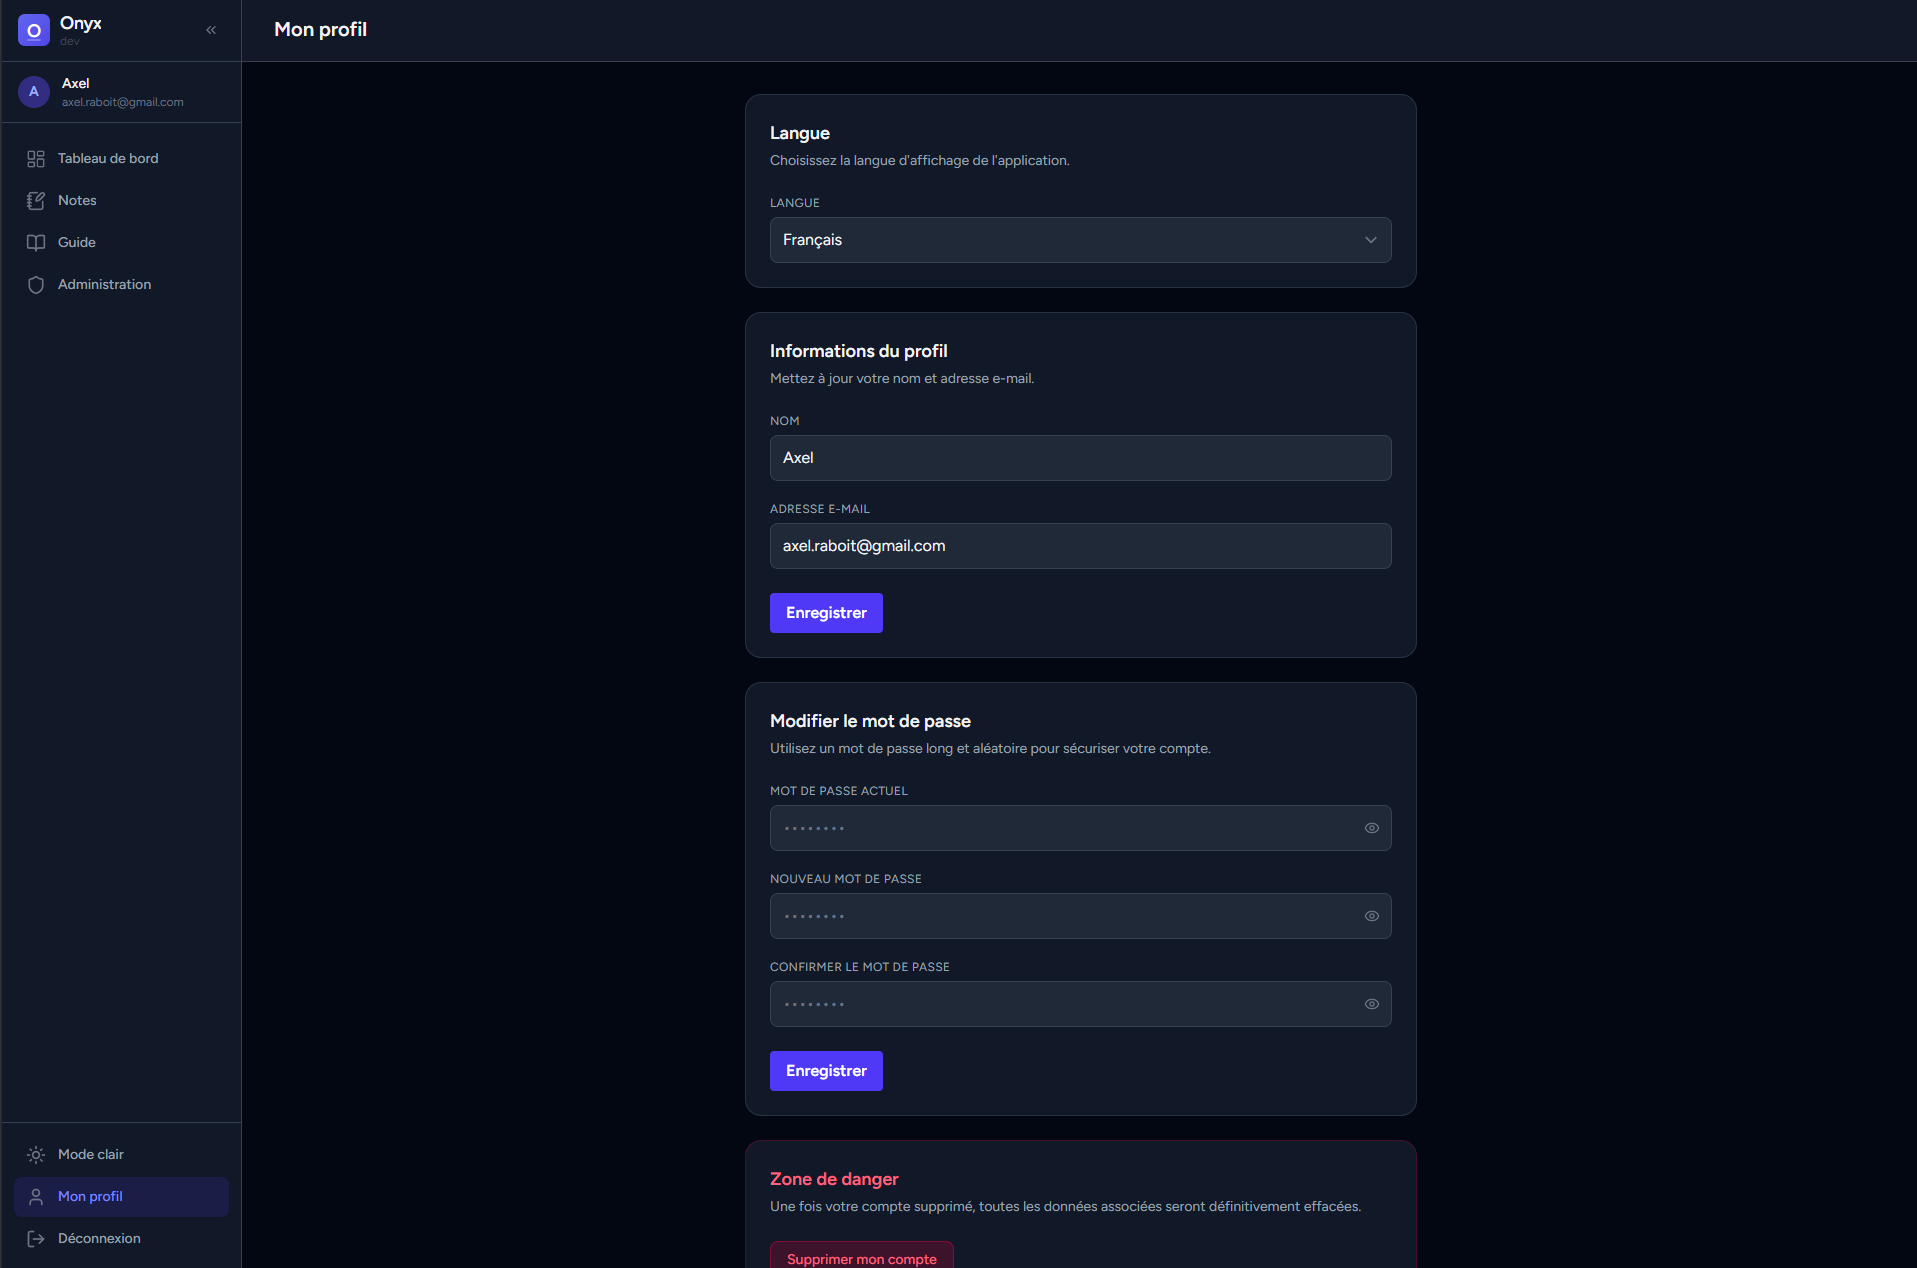
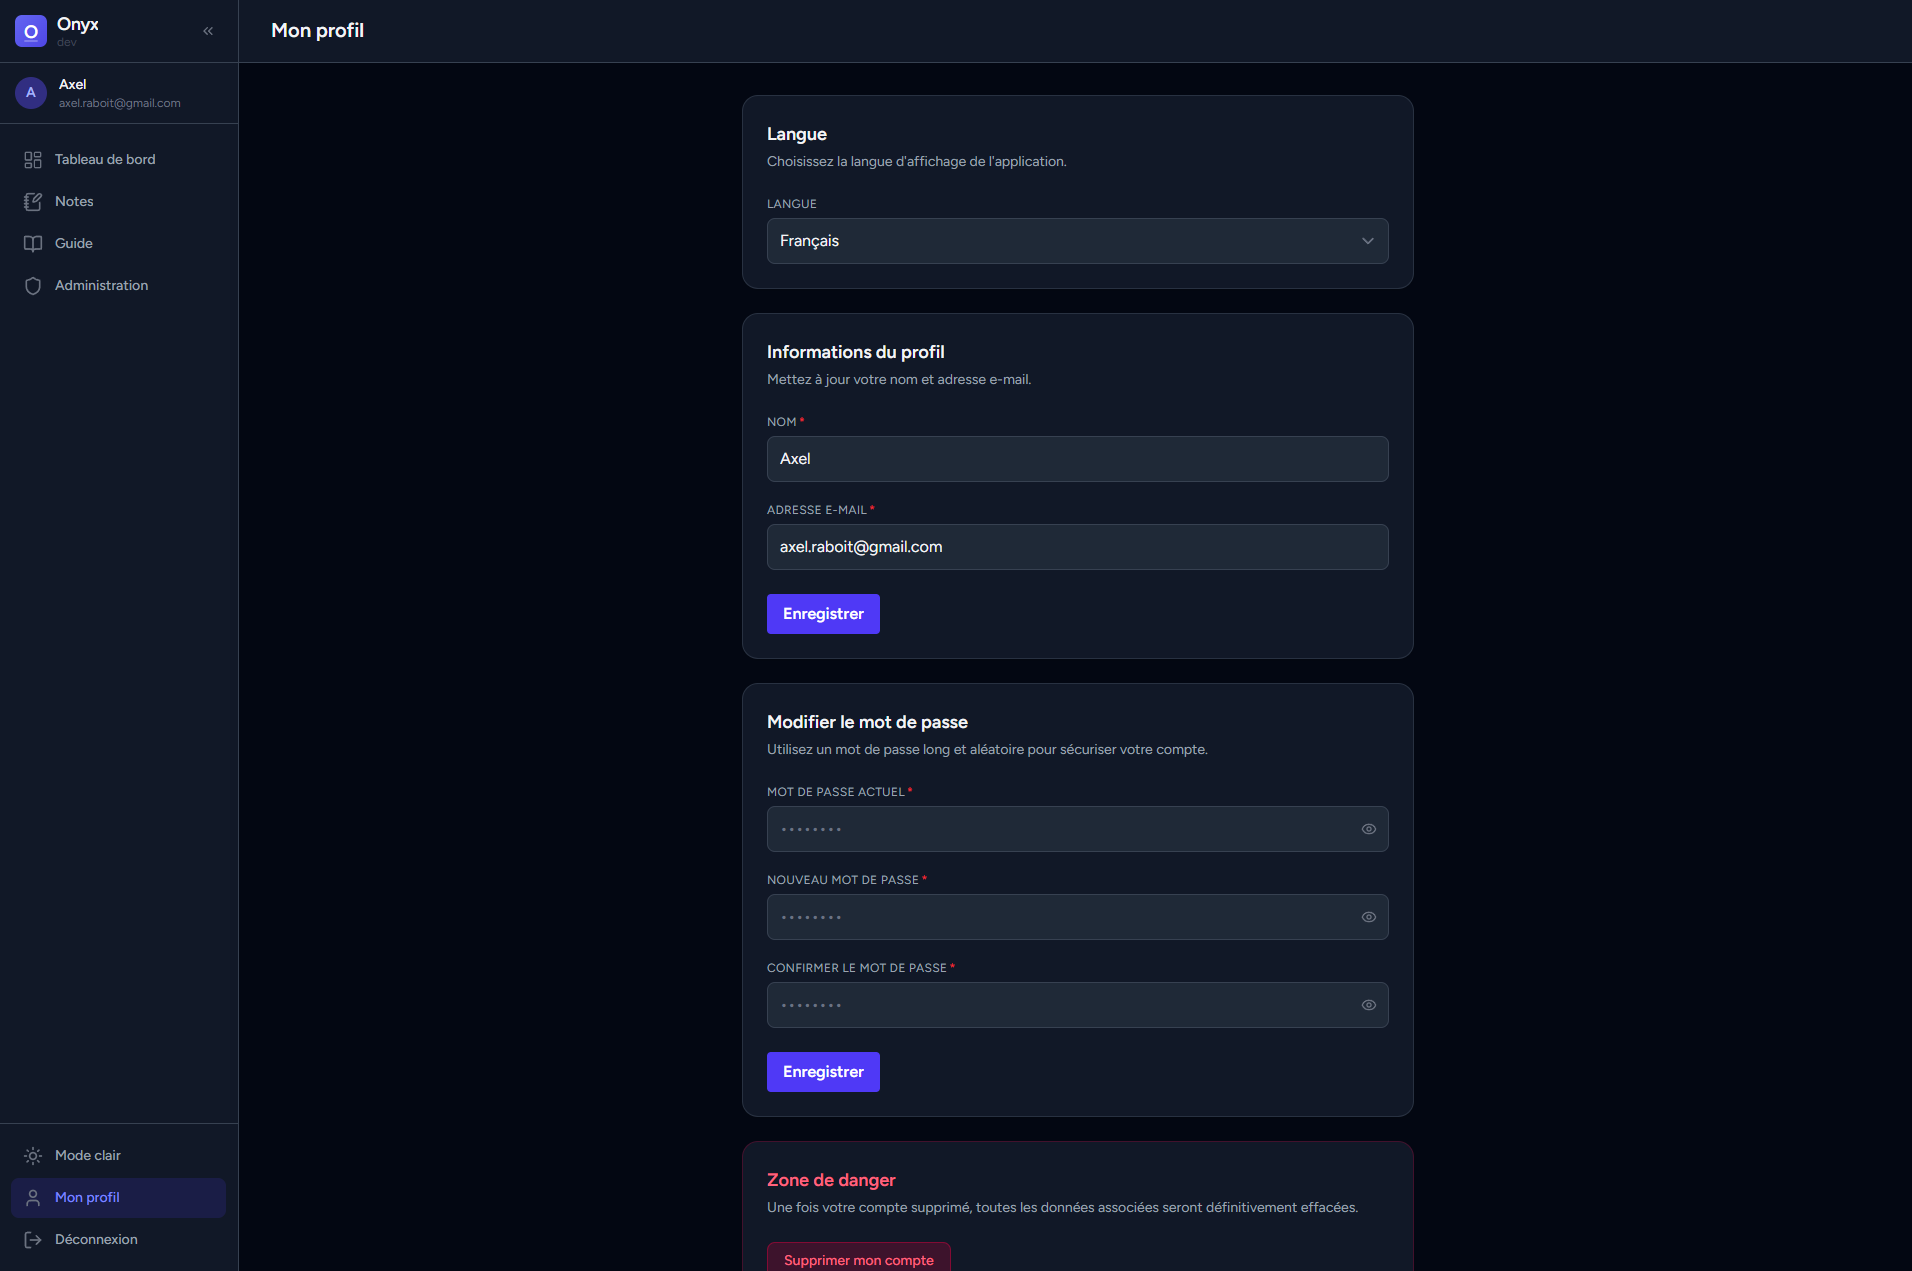
feat: AppInput

diff --git a/resources/js/Pages/Profile/Partials/UpdatePasswordForm.vue b/resources/js/Pages/Profile/Partials/UpdatePasswordForm.vue
@@ -2,16 +2,11 @@
 import { useForm } from '@inertiajs/vue3';
 import { ref } from 'vue';
 import { useI18n } from 'vue-i18n';
-import { Eye, EyeOff } from 'lucide-vue-next';
 
 const { t } = useI18n();
 
 const passwordInput = ref(null);
 const currentPasswordInput = ref(null);
-
-const showCurrent = ref(false);
-const showNew = ref(false);
-const showConfirm = ref(false);
 
 const form = useForm({
     current_password:      '',
@@ -45,64 +40,37 @@ function updatePassword() {
         </header>
 
         <form class="space-y-5" v-on:submit.prevent="updatePassword">
-            <div>
-                <label for="current_password" class="block text-xs text-secondary uppercase tracking-wide mb-1.5">{{ t('profile.password.fieldCurrent') }}</label>
-                <div class="relative">
-                    <input
-                        id="current_password"
-                        ref="currentPasswordInput"
-                        v-model="form.current_password"
-                        :type="showCurrent ? 'text' : 'password'"
-                        autocomplete="current-password"
-                        :placeholder="t('profile.password.fieldPlaceholder')"
-                        class="w-full bg-surface-2 text-primary rounded-lg px-3 py-2.5 pr-10 border border-line focus:border-indigo-500 focus:outline-none"
-                    >
-                    <button type="button" tabindex="-1" class="absolute inset-y-0 right-0 flex items-center pr-3 text-muted hover:text-secondary transition-colors" v-on:click="showCurrent = !showCurrent">
-                        <Eye v-if="!showCurrent" class="w-4 h-4" />
-                        <EyeOff v-else class="w-4 h-4" />
-                    </button>
-                </div>
-                <p v-if="form.errors.current_password" class="mt-1 text-xs text-rose-400">{{ form.errors.current_password }}</p>
-            </div>
+            <AppInput
+                ref="currentPasswordInput"
+                v-model="form.current_password"
+                type="password"
+                :label="t('profile.password.fieldCurrent')"
+                :placeholder="t('profile.password.fieldPlaceholder')"
+                :error="form.errors.current_password"
+                required
+                autocomplete="current-password"
+            />
 
-            <div>
-                <label for="password" class="block text-xs text-secondary uppercase tracking-wide mb-1.5">{{ t('profile.password.fieldNew') }}</label>
-                <div class="relative">
-                    <input
-                        id="password"
-                        ref="passwordInput"
-                        v-model="form.password"
-                        :type="showNew ? 'text' : 'password'"
-                        autocomplete="new-password"
-                        :placeholder="t('profile.password.fieldPlaceholder')"
-                        class="w-full bg-surface-2 text-primary rounded-lg px-3 py-2.5 pr-10 border border-line focus:border-indigo-500 focus:outline-none"
-                    >
-                    <button type="button" tabindex="-1" class="absolute inset-y-0 right-0 flex items-center pr-3 text-muted hover:text-secondary transition-colors" v-on:click="showNew = !showNew">
-                        <Eye v-if="!showNew" class="w-4 h-4" />
-                        <EyeOff v-else class="w-4 h-4" />
-                    </button>
-                </div>
-                <p v-if="form.errors.password" class="mt-1 text-xs text-rose-400">{{ form.errors.password }}</p>
-            </div>
+            <AppInput
+                ref="passwordInput"
+                v-model="form.password"
+                type="password"
+                :label="t('profile.password.fieldNew')"
+                :placeholder="t('profile.password.fieldPlaceholder')"
+                :error="form.errors.password"
+                required
+                autocomplete="new-password"
+            />
 
-            <div>
-                <label for="password_confirmation" class="block text-xs text-secondary uppercase tracking-wide mb-1.5">{{ t('profile.password.fieldConfirm') }}</label>
-                <div class="relative">
-                    <input
-                        id="password_confirmation"
-                        v-model="form.password_confirmation"
-                        :type="showConfirm ? 'text' : 'password'"
-                        autocomplete="new-password"
-                        :placeholder="t('profile.password.fieldPlaceholder')"
-                        class="w-full bg-surface-2 text-primary rounded-lg px-3 py-2.5 pr-10 border border-line focus:border-indigo-500 focus:outline-none"
-                    >
-                    <button type="button" tabindex="-1" class="absolute inset-y-0 right-0 flex items-center pr-3 text-muted hover:text-secondary transition-colors" v-on:click="showConfirm = !showConfirm">
-                        <Eye v-if="!showConfirm" class="w-4 h-4" />
-                        <EyeOff v-else class="w-4 h-4" />
-                    </button>
-                </div>
-                <p v-if="form.errors.password_confirmation" class="mt-1 text-xs text-rose-400">{{ form.errors.password_confirmation }}</p>
-            </div>
+            <AppInput
+                v-model="form.password_confirmation"
+                type="password"
+                :label="t('profile.password.fieldConfirm')"
+                :placeholder="t('profile.password.fieldPlaceholder')"
+                :error="form.errors.password_confirmation"
+                required
+                autocomplete="new-password"
+            />
 
             <div class="flex items-center gap-3 pt-1">
                 <AppButton type="submit" :disabled="form.processing">{{ t('common.save') }}</AppButton>

diff --git a/resources/js/Pages/Profile/Partials/UpdateProfileInformationForm.vue b/resources/js/Pages/Profile/Partials/UpdateProfileInformationForm.vue
@@ -25,34 +25,25 @@ const form = useForm({
         </header>
 
         <form class="space-y-5" v-on:submit.prevent="form.patch(route('profile.update'))">
-            <div>
-                <label for="name" class="block text-xs text-secondary uppercase tracking-wide mb-1.5">{{ t('profile.info.fieldName') }}</label>
-                <input
-                    id="name"
-                    v-model="form.name"
-                    type="text"
-                    required
-                    autofocus
-                    autocomplete="name"
-                    :placeholder="t('profile.info.fieldNamePlaceholder')"
-                    class="w-full bg-surface-2 text-primary rounded-lg px-3 py-2.5 border border-line focus:border-indigo-500 focus:outline-none"
-                >
-                <p v-if="form.errors.name" class="mt-1 text-xs text-rose-400">{{ form.errors.name }}</p>
-            </div>
+            <AppInput
+                v-model="form.name"
+                :label="t('profile.info.fieldName')"
+                :placeholder="t('profile.info.fieldNamePlaceholder')"
+                :error="form.errors.name"
+                required
+                autofocus
+                autocomplete="name"
+            />
 
-            <div>
-                <label for="email" class="block text-xs text-secondary uppercase tracking-wide mb-1.5">{{ t('profile.info.fieldEmail') }}</label>
-                <input
-                    id="email"
-                    v-model="form.email"
-                    type="email"
-                    required
-                    autocomplete="username"
-                    :placeholder="t('profile.info.fieldEmailPlaceholder')"
-                    class="w-full bg-surface-2 text-primary rounded-lg px-3 py-2.5 border border-line focus:border-indigo-500 focus:outline-none"
-                >
-                <p v-if="form.errors.email" class="mt-1 text-xs text-rose-400">{{ form.errors.email }}</p>
-            </div>
+            <AppInput
+                v-model="form.email"
+                type="email"
+                :label="t('profile.info.fieldEmail')"
+                :placeholder="t('profile.info.fieldEmailPlaceholder')"
+                :error="form.errors.email"
+                required
+                autocomplete="username"
+            />
 
             <div v-if="mustVerifyEmail && user.email_verified_at === null">
                 <p class="mt-2 text-sm text-secondary">

diff --git a/resources/js/components/form/AppInput.vue b/resources/js/components/form/AppInput.vue
@@ -1,0 +1,57 @@
+<script setup>
+import { ref, computed, useAttrs } from 'vue';
+import { Eye, EyeOff } from 'lucide-vue-next';
+
+defineOptions({ inheritAttrs: false });
+
+const props = defineProps({
+    modelValue:  { type: String, default: '' },
+    type:        { type: String, default: 'text' },
+    placeholder: { type: String, default: '' },
+    label:       { type: String, default: '' },
+    error:       { type: String, default: '' },
+    required:    { type: Boolean, default: false },
+});
+
+defineEmits(['update:modelValue']);
+
+const attrs = useAttrs();
+const input = ref(null);
+const revealed = ref(false);
+const isPassword = computed(() => props.type === 'password');
+const inputType = computed(() => isPassword.value && revealed.value ? 'text' : props.type);
+
+defineExpose({ focus: () => input.value?.focus() });
+</script>
+
+<template>
+    <div class="flex flex-col gap-1.5" :class="attrs.class">
+        <label v-if="label" class="block text-xs text-secondary uppercase tracking-wide">
+            {{ label }}<span v-if="required" class="text-red-500 ml-0.5">*</span>
+        </label>
+        <div :class="isPassword ? 'relative' : ''">
+            <input
+                ref="input"
+                :type="inputType"
+                :value="modelValue"
+                :placeholder="placeholder"
+                :required="required"
+                v-bind="{ ...attrs, class: undefined }"
+                class="w-full bg-surface-2 text-primary rounded-lg px-3 py-2.5 border border-line focus:border-indigo-500 focus:outline-none"
+                :class="[{ 'border-red-500 focus:border-red-500': error }, isPassword ? 'pr-10' : '']"
+                v-on:input="$emit('update:modelValue', $event.target.value)"
+            >
+            <button
+                v-if="isPassword"
+                type="button"
+                tabindex="-1"
+                class="absolute inset-y-0 right-0 flex items-center pr-3 text-muted hover:text-secondary transition-colors"
+                v-on:click="revealed = !revealed"
+            >
+                <Eye v-if="!revealed" class="w-4 h-4" />
+                <EyeOff v-else class="w-4 h-4" />
+            </button>
+        </div>
+        <p v-if="error" class="text-xs text-rose-400">{{ error }}</p>
+    </div>
+</template>

diff --git a/resources/js/plugins/components.js b/resources/js/plugins/components.js
@@ -1,5 +1,6 @@
 import AppBadge from '@/components/ui/AppBadge.vue';
 import AppButton from '@/components/ui/AppButton.vue';
+import AppInput from '@/components/form/AppInput.vue';
 import AppModal from '@/components/ui/AppModal.vue';
 import AppPageHeader from '@/components/ui/AppPageHeader.vue';
 import AppPagination from '@/components/ui/AppPagination.vue';
@@ -22,6 +23,7 @@ export default {
     install(app) {
         app.component('AppBadge', AppBadge);
         app.component('AppButton', AppButton);
+        app.component('AppInput', AppInput);
         app.component('AppModal', AppModal);
         app.component('AppPageHeader', AppPageHeader);
         app.component('AppPagination', AppPagination);

diff --git a/resources/js/components/form/FormField.vue b/resources/js/components/form/FormField.vue
@@ -1,12 +1,15 @@
 <script setup>
 defineProps({
-    label: { type: String, required: true },
+    label:    { type: String, required: true },
+    required: { type: Boolean, default: false },
 });
 </script>
 
 <template>
     <div>
-        <label class="block text-xs text-secondary uppercase tracking-wide mb-1.5">{{ label }}</label>
+        <label class="block text-xs text-secondary uppercase tracking-wide mb-1.5">
+            {{ label }}<span v-if="required" class="text-red-500 ml-0.5">*</span>
+        </label>
         <slot />
     </div>
 </template>

diff --git a/resources/js/components/form/InputLabel.vue b/resources/js/components/form/InputLabel.vue
@@ -3,6 +3,10 @@ defineProps({
     value: {
         type: String,
     },
+    required: {
+        type: Boolean,
+        default: false,
+    },
 });
 </script>
 
@@ -10,5 +14,6 @@ defineProps({
     <label class="block text-xs text-secondary uppercase tracking-wide mb-1.5">
         <span v-if="value">{{ value }}</span>
         <span v-else><slot /></span>
+        <span v-if="required" class="text-red-500 ml-0.5">*</span>
     </label>
 </template>
